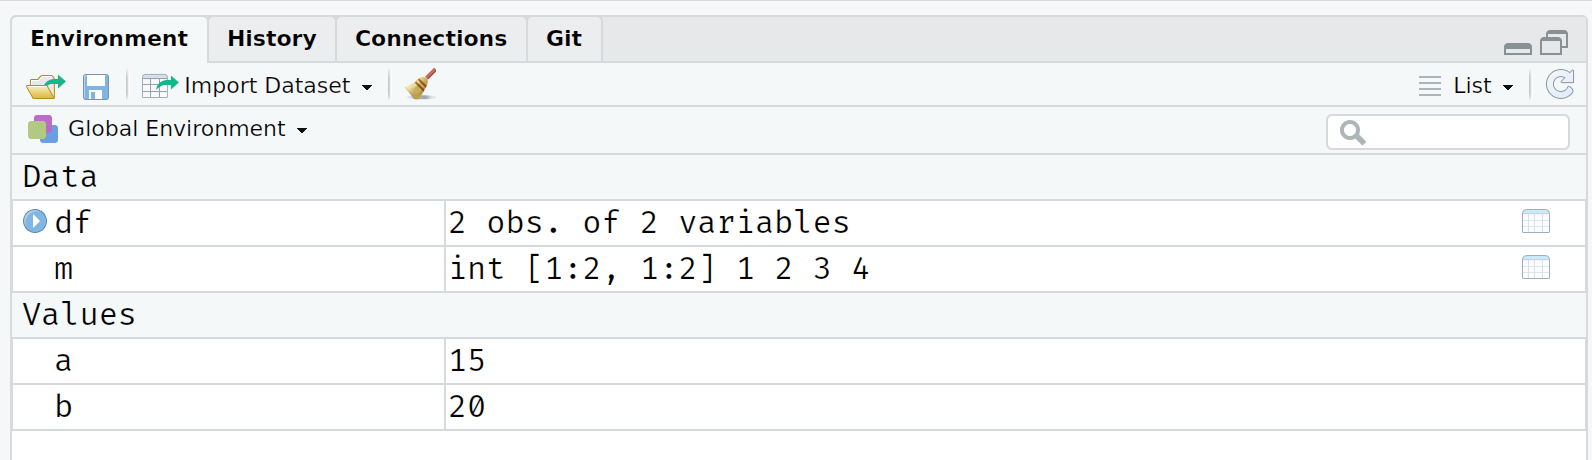
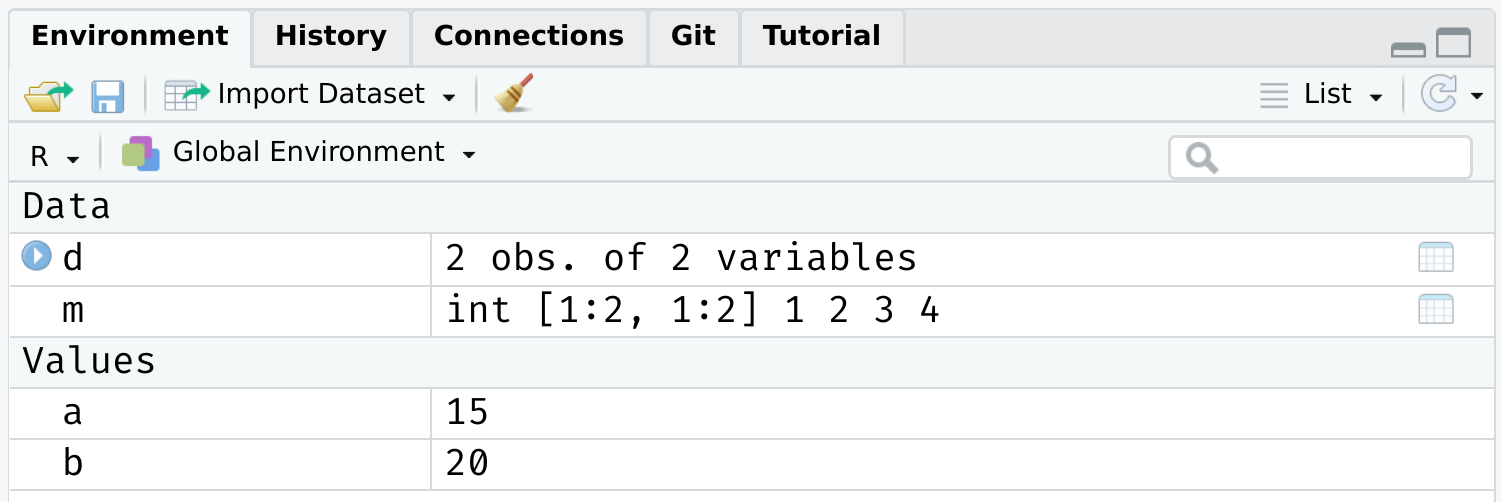
Minor updates

diff --git a/04-rlang/04-rlang.html b/04-rlang/04-rlang.html
@@ -516,7 +516,7 @@ demo(package = .packages(all.available = TRUE))
 
 --
 
-To run a particular demo, just tell R which one and the name of the parent package. For example:
+To run a specific demo, just tell R which one and the name of the parent package. For example:
 
 ```r
 demo("graphics", package = "graphics")
@@ -587,15 +587,15 @@ We'll revisit the issue of "type" vs "class" in a slide or two. For the moment, 
 
 Most likely, you already have a good idea of what distinguishes these objects and how to use them.
 - However, bear in mind that there subtleties that may confuse while you're still getting used to R. 
-- E.g. There are different kinds of data frames; you'll soon encounter "[tibbles](https://tibble.tidyverse.org/)", which are an enhanced data frame provided by the tidyverse.
+- E.g. There are different kinds of data frames. We'll soon encounter "[tibbles](https://tibble.tidyverse.org/)" and "[data.tables](https://rdatatable.gitlab.io/data.table/articles/datatable-intro.html#what-is-datatable-1a)", which are enhanced versions of the standard data frame in R. 
 
 ---
 
 # What are objects? (cont.)
 
-Each object class has its own set of rules governing how that object can be used in R.
+Each object class has its own set of rules ("methods") for determining valid operations.
 - For example, you can perform many of the same operations on matrices and data frames. But there are some operations that only work on a matrix, and vice versa.
-- At the same time, you can (often) convert an object from one type to another.
+- At the same time, you can (usually) convert an object from one type to another.
 
 
 ```r
@@ -669,7 +669,7 @@ Of course, you can always just inspect/print an object directly in the console.
 - E.g. Type `d` and hit Enter.
 
 
-The `View()` function is also very helpful.
+The `View()` function is also very helpful. This is the same as clicking on the object in your RStudio *Environment* pane. (Try both methods now.)
 - E.g. `View(d)`.
 
 ---
@@ -753,7 +753,7 @@ lm(y ~ x, data = d) ## Works when we add "data = d"!
 
 --
 
-I wanted to emphasize this global environment issue, because it is something that Stata users (i.e. most economists) struggle with when they first come to R.
+I wanted to emphasize this global environment issue, because it is something that Stata users (i.e. many economists) struggle with when they first come to R.
 - In Stata, the entire workspace essentially consists of one (and only one) data frame. So there can be no ambiguity where variables are coming from.
 - However, that "convenience" comes at a really high price IMO. You can never read more than two separate datasets (let alone object types) into memory at the same time, have to resort all sorts of hacks to add summary variables to your dataset, etc. 
 - Speaking of which...
@@ -764,7 +764,7 @@ I wanted to emphasize this global environment issue, because it is something tha
 # Working with multiple objects
 
 As I keep saying, R's ability to keep multiple objects in memory at the same time is a huge plus when it comes to effective data work. 
-- E.g. We can create a new data frame that exists happily with our existing objects in the global environment.
+- E.g. We can copy an exiting data frame, or create new one entirely from scratch. Either will exist happily with our existing objects in the global environment.
 
 
 ```r
@@ -773,9 +773,12 @@ d2 = data.frame(x = rnorm(10), y = runif(10))
 
 ![Now with d2 added](pics/environment2.png)
 
---
+---
+
+# Working with multiple objects (cont.)
 
 Again, however, it does mean that you have to pay attention to the names of those distinct data frames and be specific about which objects you are referring to.
+- Do we want to run a regression of "y" on "x" from data frame `d` or data frame `d2`?
 
 ---
 class: inverse, center, middle
@@ -849,6 +852,8 @@ Vectors are very important in R, because the language has been optimised for the
 *(Continued from previous slide.)*
 
 In this case, thankfully nothing. R is "smart" enough to distinguish between the variable `c = 4` that we created and the built-in function `c()` that calls for concatenation.
+
+--
 
 However, this is still *extremely* sloppy coding. R won't always be able to distinguish between conflicting definitions. And neither will you. For example:
 
@@ -981,6 +986,23 @@ Another good rule of thumb is that you want to load your most important packages
 Other than that, simply pay attention to any warnings when loading a new package and `?` is your friend if you're ever unsure. (E.g. `?filter` will tell you which variant is being used.)
 - In truth, problematic namespace conflicts are rare. But it's good to be aware of them. 
   
+---
+
+# User-side namespace conflicts
+
+A final thing to say about namespace conflicts is that they don't only arise from loading packages. They can arise when users create their own functions with a conflicting name.
+- E.g. If I was naive enough to create a new function called `c()`.
+
+--
+
+&lt;/br&gt;
+
+In a similar vein, one of the most common and confusing errors that even experienced R programmers run into is related to the habit of calling objects "df" or "data"... both of which are functions in base R!
+- See for yourself by typing `?df` or `?data`.
+
+Again, R will figure out what you mean if you are clear/lucky enough. But, much the same as with `c()`, it's relatively easy to run into problems.
+- Case in point: Triggering the infamous "object of type closure is not subsettable" error message. (See from 1:45 [here](https://rstudio.com/resources/rstudioconf-2020/object-of-type-closure-is-not-subsettable/).)
+
 ---
 class: inverse, center, middle
 name: indexing
@@ -1179,6 +1201,12 @@ my_list$c$x ## Return column "x" of list object "c"
 ## [1] 1 2 3 4 5
 ```
 
+--
+
+&lt;/br&gt;
+
+**Aside:** Typing `View(my_list)` (or, equivalently, clicking on the object in RStudio's environment pane) provides a nice interactive window for exploring the nested structure of lists.
+
 ---
 
 # Option 2: $ (cont.)
@@ -1278,7 +1306,7 @@ You may also have noticed that RStudio has convenient buttons for clearing your 
 
 class: inverse, center, middle
 
-# Next class: Data wrangling and cleaning with the Tidyverse
+# Next lecture(s): Data wrangling and cleaning
 
 &lt;html&gt;&lt;div style='float:left'&gt;&lt;/div&gt;&lt;hr color='#EB811B' size=1px width=796px&gt;&lt;/html&gt;
 
